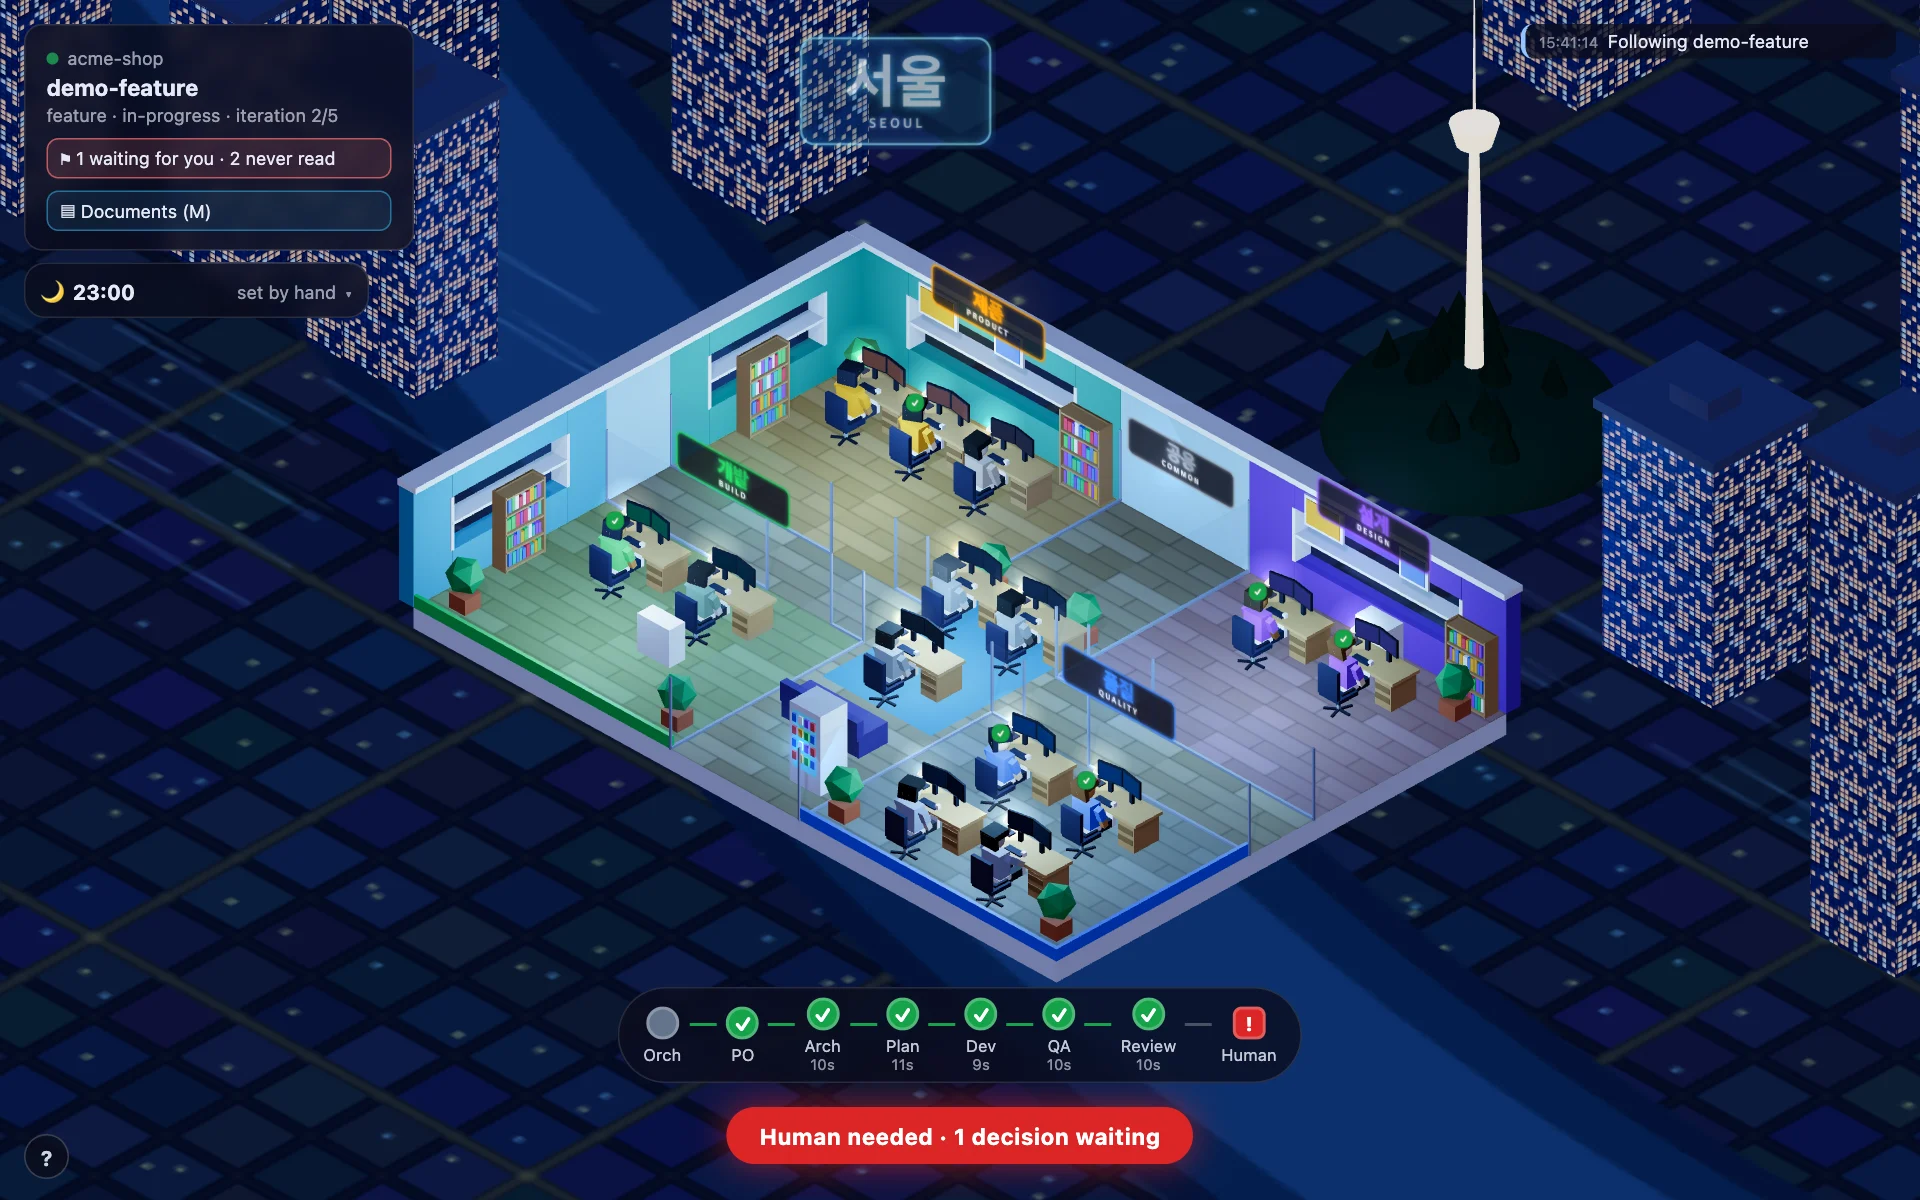
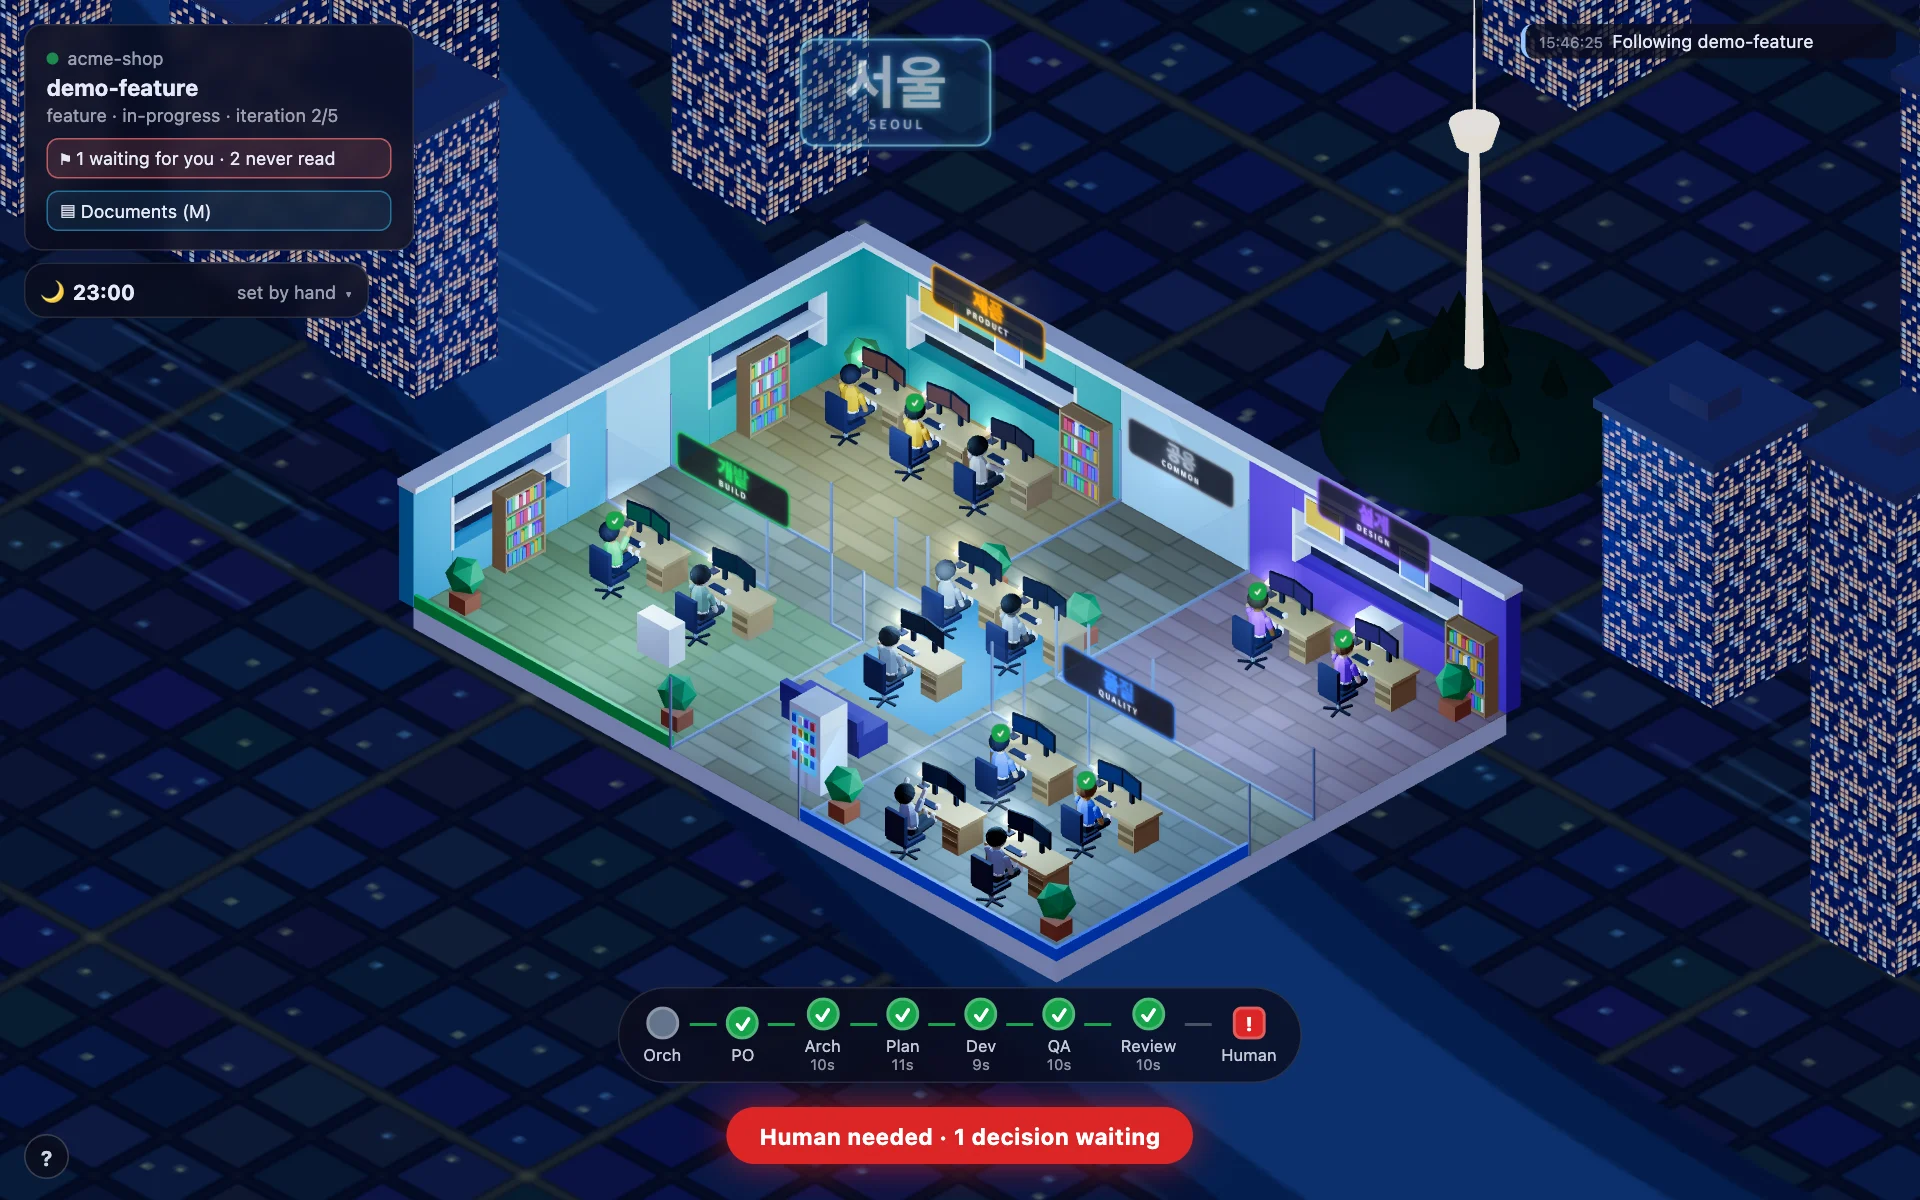
Office floor: rounded agents
- Capsule limbs, a rounded torso on hips, a belt and a neck, rounded shoes
- A cap of hair instead of two blocks
- Flat shading keeps the low-poly look of the furniture; the pivots, hence the animations, are unchanged
- Regenerate the screenshots

diff --git a/tools/office/web/agents.js b/tools/office/web/agents.js
@@ -79,17 +79,21 @@ function makeAgent(role, seat) {
   // Every material of the body, with its own color and the grey it fades to outside the run.
   const materials = [];
   const standard = (color) => {
-    const material = new THREE.MeshStandardMaterial({ color, roughness: 0.8 });
+    // Flat shading keeps the facets: rounded, but still the low-poly look of the furniture.
+    const material = new THREE.MeshStandardMaterial({ color, roughness: 0.8, flatShading: true });
     const grey = material.color.getHSL({}).l * 0.8;
     materials.push({ material, base: material.color.clone(), grey: new THREE.Color(grey, grey, grey) });
     return material;
   };
-  const part = (w, h, d, color, y) => {
-    const mesh = new THREE.Mesh(new THREE.BoxGeometry(w, h, d), standard(color));
+  const shape = (geometry, color, y) => {
+    const mesh = new THREE.Mesh(geometry, standard(color));
     mesh.position.y = y;
     mesh.castShadow = true;
     return mesh;
   };
+  const part = (w, h, d, color, y) => shape(new THREE.BoxGeometry(w, h, d), color, y);
+  // A capsule `length` tall between its two caps, centred on y.
+  const limb = (radius, length, color, y) => shape(new THREE.CapsuleGeometry(radius, length, 3, 8), color, y);
   const pivot = (x, y) => {
     const g = new THREE.Group();
     g.position.set(x, y, 0);
@@ -113,29 +117,36 @@ function makeAgent(role, seat) {
   const pants = pick([0x222638, 0x2d3350, 0x3a3f55, 0x1f2a44], 6);
   const shirt = TEAM_COLORS[seat.team];
 
-  body.add(part(0.5, 0.6, 0.3, shirt, 0.38));
-  body.add(part(0.52, 0.1, 0.32, 0xf4f6fb, 0.08)); // belt line
-  const head = new THREE.Mesh(new THREE.SphereGeometry(0.2, 14, 12), standard(skin));
-  head.position.y = 0.95;
-  head.castShadow = true;
-  const hairTop = part(0.4, 0.14, 0.4, hair, 1.1);
-  const hairBack = part(0.4, 0.3, 0.1, hair, 0.98);
-  hairBack.position.z = -0.15; // the back of the head faces the camera
+  // A rounded torso, a little flatter front to back, on hips in the color of the trousers.
+  const torso = limb(0.21, 0.24, shirt, 0.4);
+  torso.scale.z = 0.75;
+  const hips = shape(new THREE.CylinderGeometry(0.19, 0.17, 0.18, 10), pants, 0.08);
+  hips.scale.z = 0.8;
+  const belt = shape(new THREE.CylinderGeometry(0.19, 0.19, 0.05, 10), 0xf4f6fb, 0.18); // belt line
+  belt.scale.z = 0.8;
+  body.add(torso, hips, belt, shape(new THREE.CylinderGeometry(0.075, 0.085, 0.12, 8), skin, 0.77)); // and a neck
+  const head = shape(new THREE.SphereGeometry(0.2, 12, 10), skin, 0.95);
+  // A cap of hair over the top and the back of the head, which faces the camera.
+  const hairCap = shape(new THREE.SphereGeometry(0.215, 12, 8, 0, Math.PI * 2, 0, Math.PI * 0.55), hair, 0.97);
+  hairCap.rotation.x = -0.45;
   // The head turns on the neck, so the hair goes with it.
   const neck = pivot(0, 0.78);
-  for (const piece of [head, hairTop, hairBack]) piece.position.y -= 0.78;
-  neck.add(head, hairTop, hairBack);
+  for (const piece of [head, hairCap]) piece.position.y -= 0.78;
+  neck.add(head, hairCap);
   body.add(neck);
 
-  const arms = [pivot(-0.33, 0.62), pivot(0.33, 0.62)];
-  const legs = [pivot(-0.13, 0), pivot(0.13, 0)];
+  const arms = [pivot(-0.255, 0.62), pivot(0.255, 0.62)];
+  const legs = [pivot(-0.1, 0), pivot(0.1, 0)];
   for (const arm of arms) {
-    arm.add(part(0.15, 0.3, 0.15, shirt, -0.15), part(0.12, 0.2, 0.12, skin, -0.4));
+    arm.add(limb(0.07, 0.18, shirt, -0.14), limb(0.055, 0.16, skin, -0.38)); // sleeve, then forearm and hand
     body.add(arm);
   }
   for (const leg of legs) {
-    leg.add(part(0.17, 0.55, 0.17, pants, -0.27), part(0.19, 0.08, 0.27, 0xf4f6fb, -0.55));
-    leg.children[1].position.z = 0.05;
+    const shoe = limb(0.07, 0.12, 0xf4f6fb, -0.55);
+    shoe.rotation.x = Math.PI / 2; // lying along the foot
+    shoe.scale.z = 0.75;
+    shoe.position.z = 0.05;
+    leg.add(limb(0.085, 0.38, pants, -0.27), shoe);
     body.add(leg);
   }
   body.scale.setScalar(1.12);
